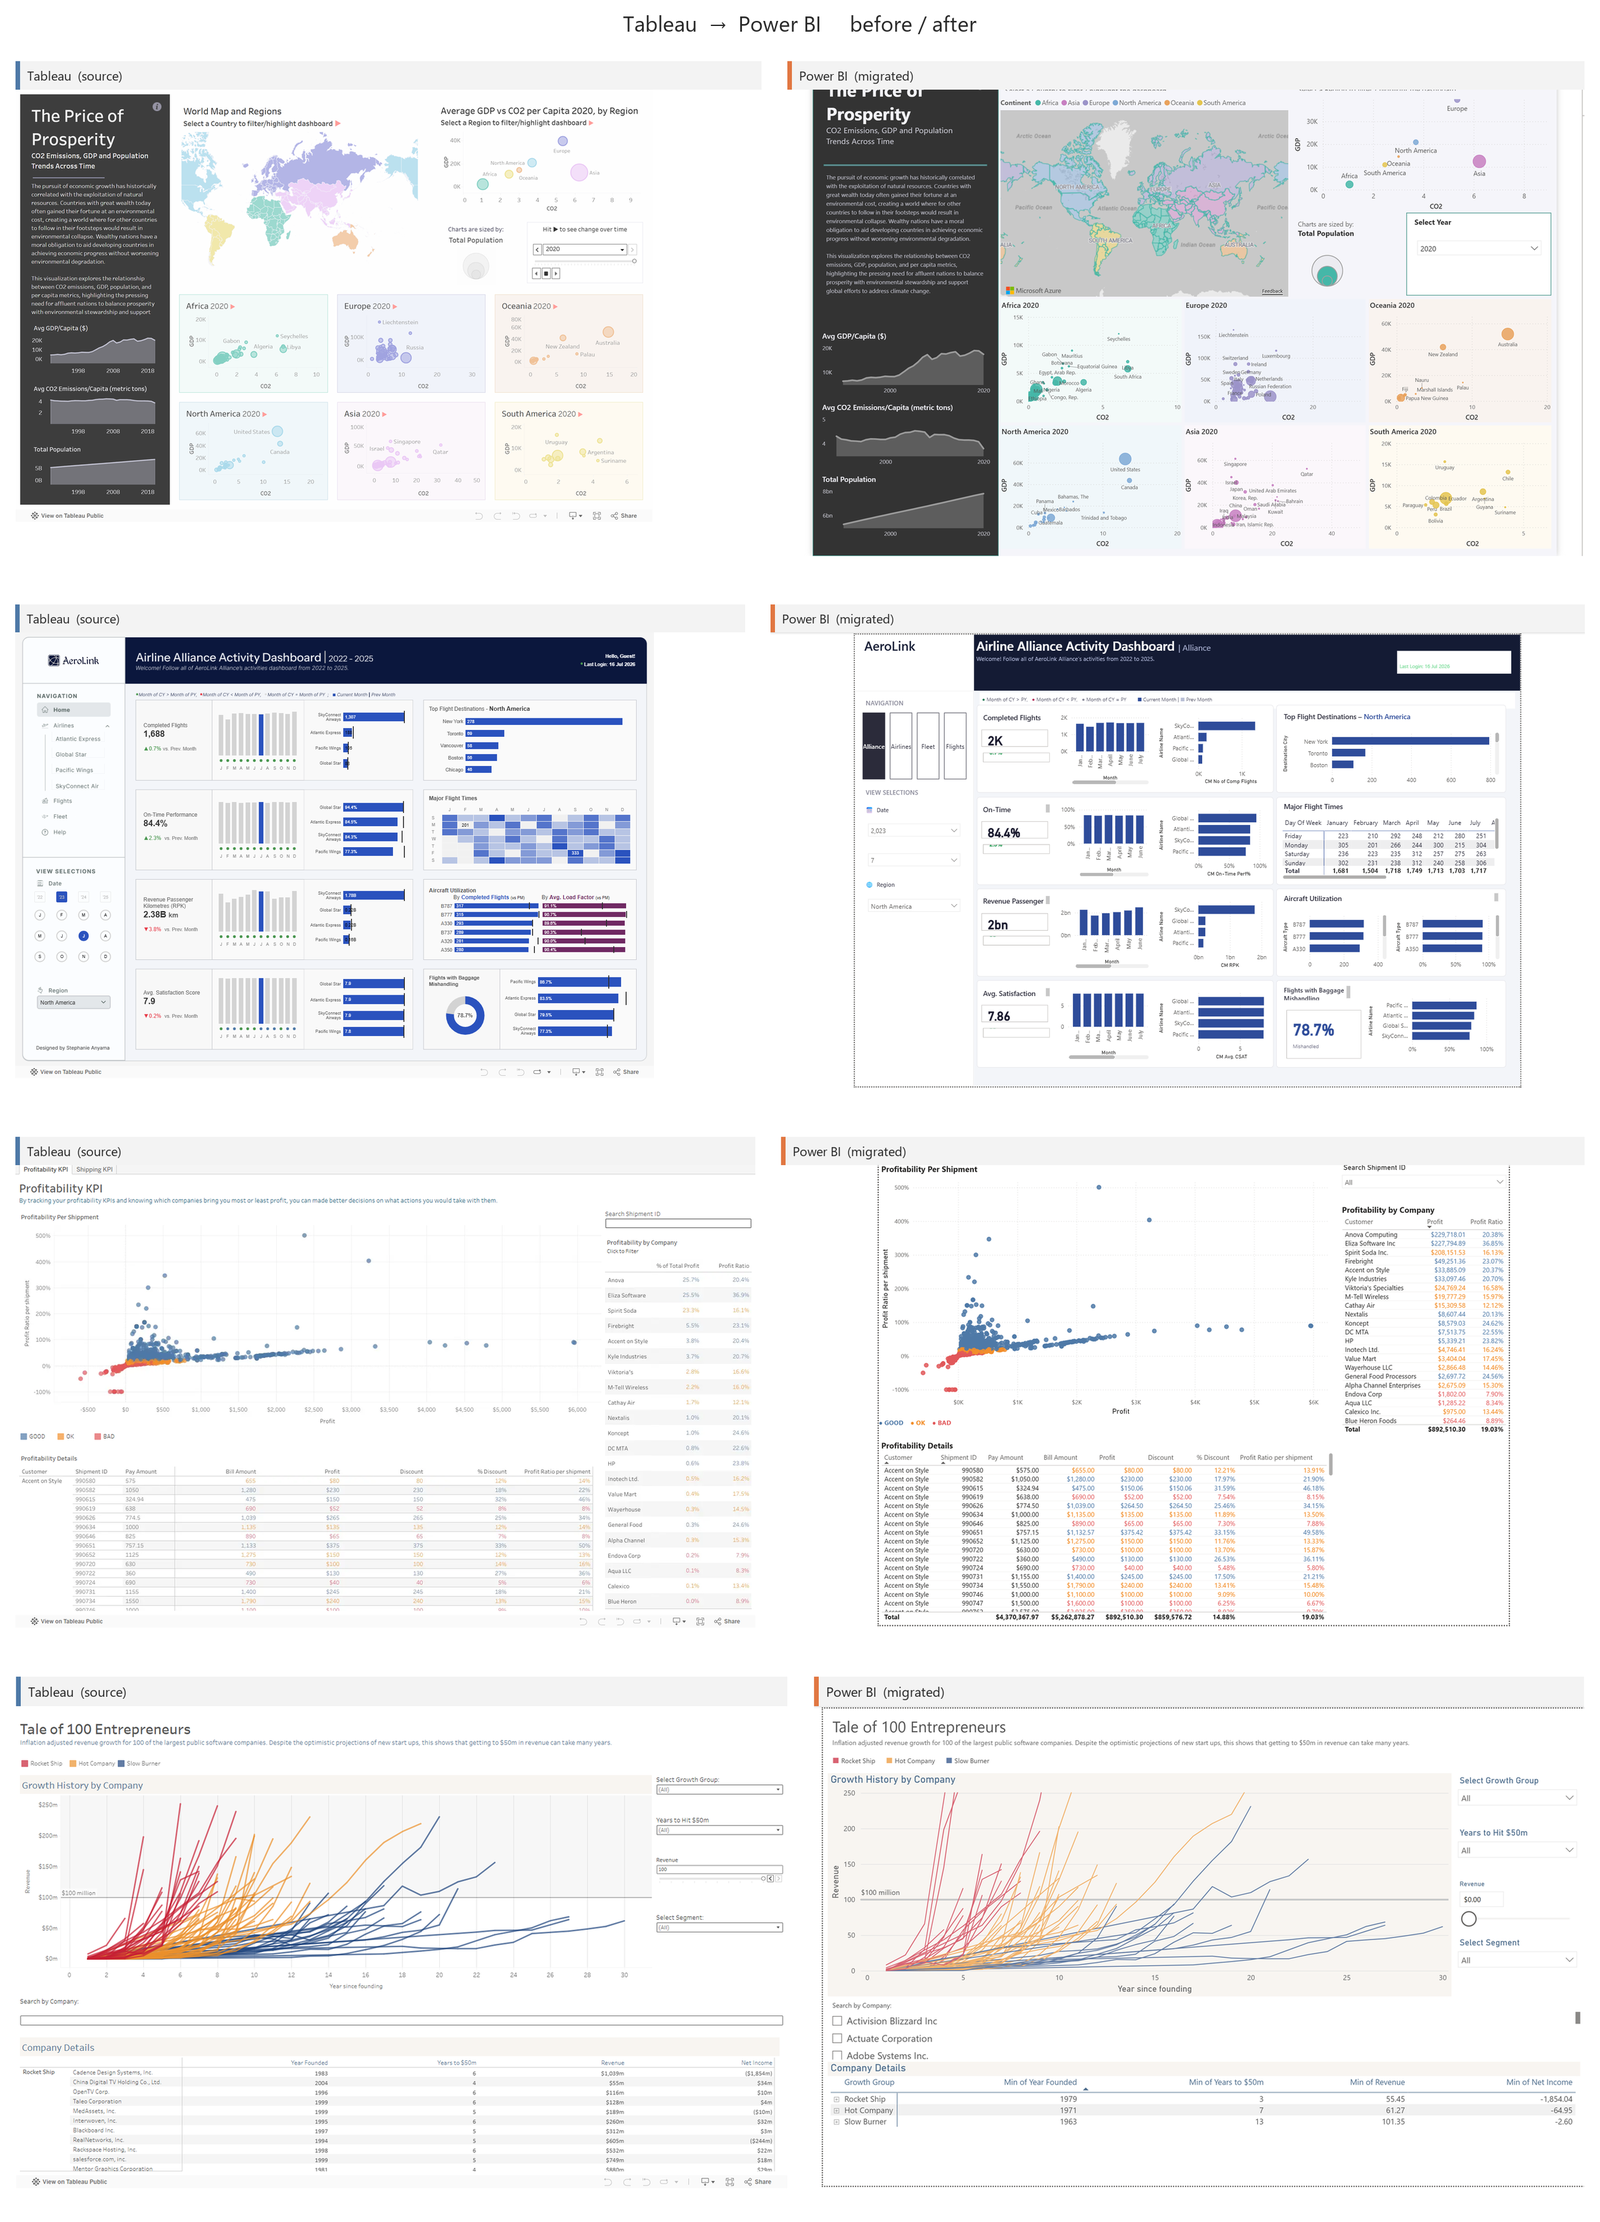
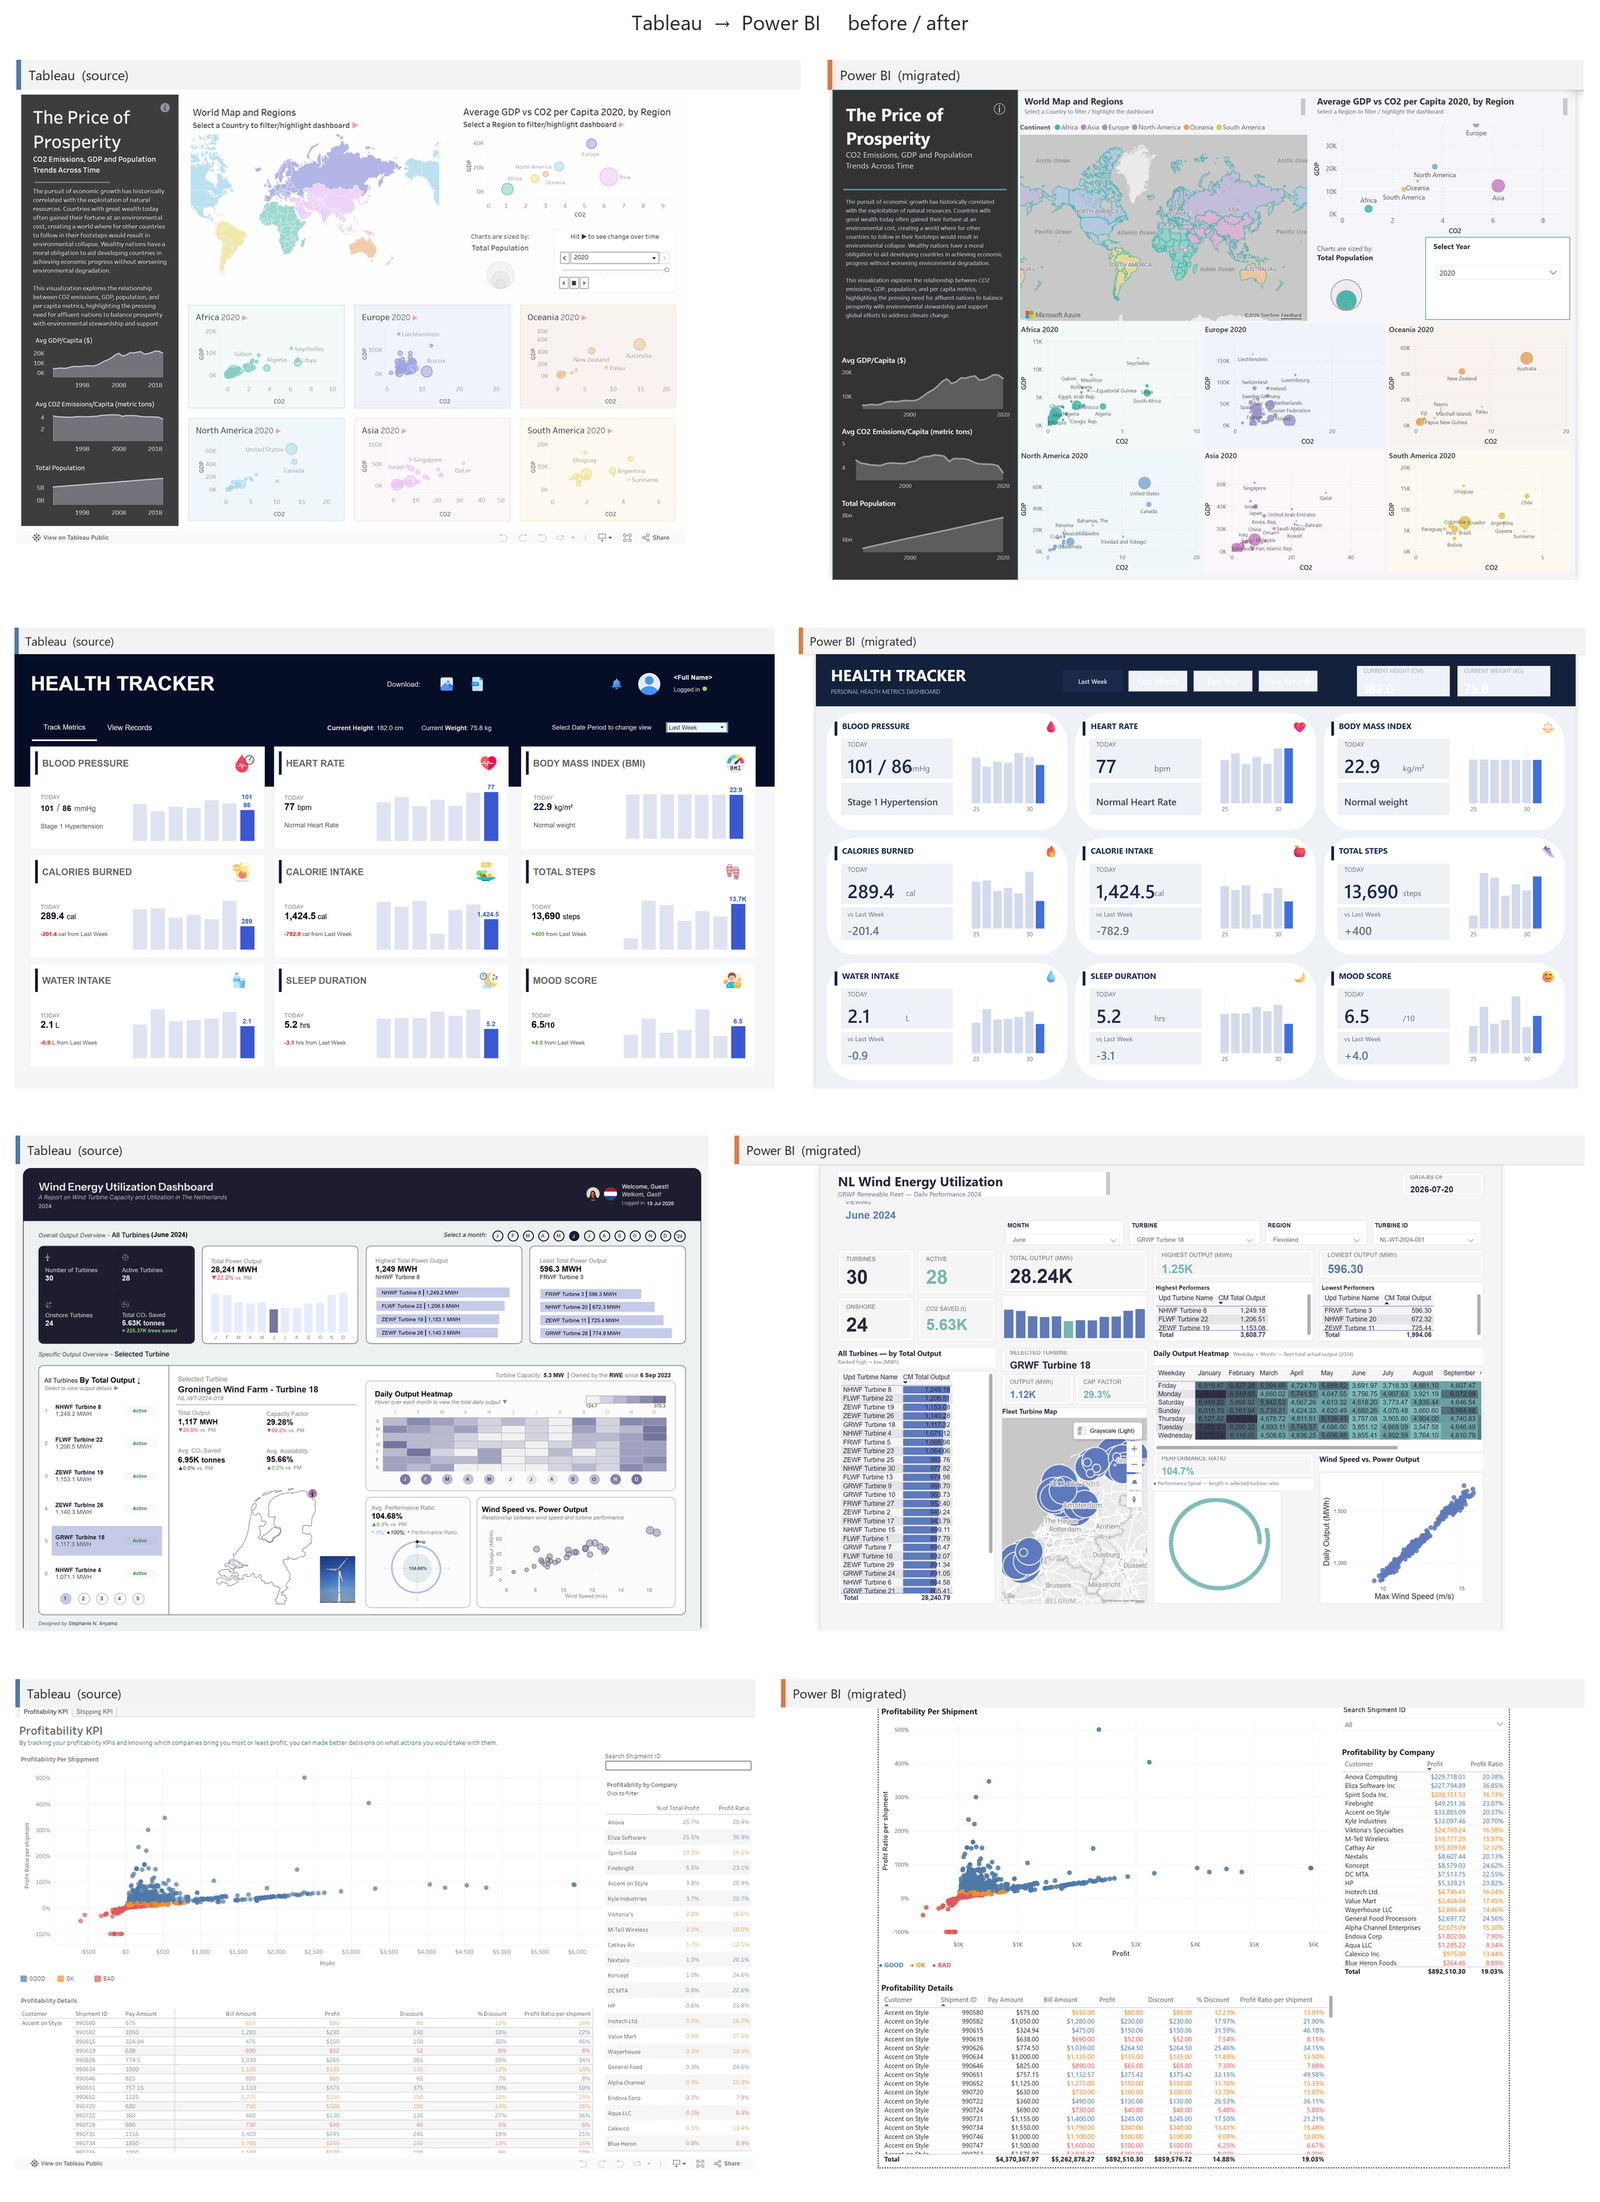
docs(showcase): refresh flagship render, add health-tracker + wind-energy, re-curate hero
- price-of-prosperity: swap in the clean re-rendered dashboard (no "incomplete
  data" refresh banner, Filters pane removed) and drop the now-stale crop.
- health-tracker: add to the gallery (clean embed-mode Tableau metrics vs the
  fixed Power BI render whose 9 mini-charts now highlight the latest day).
- wind-energy-utilization: add to the gallery (validated PASS render).
- Hero: drop the airline-alliance-activity panel; feature
  price-of-prosperity, health-tracker, wind-energy, shipping-kpis.

Regenerates the gallery README, per-workbook composites, and hero-before-after.png.

Copilot-Session: 2de9d228-46b0-40ed-9786-5e7c3fea4163

diff --git a/scripts/make_showcase.py b/scripts/make_showcase.py
@@ -30,9 +30,9 @@ TABLEAU_ACCENT = (78, 121, 167)
 PBI_ACCENT = (225, 119, 66)
 DEFAULT_HERO = [
     "price-of-prosperity",
-    "airline-alliance-activity",
+    "health-tracker",
+    "wind-energy-utilization",
     "shipping-kpis",
-    "tale-of-100-entrepreneurs",
 ]
 
 

diff --git a/docs/showcase/README.md b/docs/showcase/README.md
@@ -12,6 +12,22 @@ Global CO2 emissions, GDP, and population trends. Produced end to end by the tab
 
 ![The Price of Prosperity - Price of Prosperity](assets/price-of-prosperity-1.png)
 
+### Health Tracker
+
+Personal health metrics dashboard. Nine KPI cards each pair a today value and week-over-week delta with a 7-day trend bar chart that highlights the latest day, at exact numeric fidelity across every metric (blood pressure, heart rate, BMI, calories burned/intake, steps, water, sleep, mood). The Tableau date-period switcher (Last Week / Month / Year) migrates to Power BI button navigation. The latest-day bar highlight surfaced a real off-by-one in the date-window calc that the fidelity validator caught and the model builder fixed.
+
+**Track Metrics**
+
+![Health Tracker - Track Metrics](assets/health-tracker-1.png)
+
+### NL Wind Energy Utilization
+
+Netherlands wind-fleet performance dashboard (30 turbines, 2024 daily output). A star schema drives ranked turbine tables with data bars, an azureMap turbine-bubble layer over the Netherlands, a weekday-by-month output heatmap, TopN highest/lowest performer tables, and a wind-speed-vs-power scatter. Tableau's polar performance spiral is reproduced as DAX-computed X/Y measures. Numeric fidelity confirmed exact (total actual output 453,167.284 MWh, CO2 saved 169,031.370 t).
+
+**Fleet Performance**
+
+![NL Wind Energy Utilization - Fleet Performance](assets/wind-energy-utilization-1.png)
+
 ### Shipping KPIs
 
 Logistics profitability & delay KPIs. GOOD/OK/BAD conditional coloring on scatter points and table rows; per-shipment profit-ratio FIXED LOD; faithful preservation of the source's Expected-minus-Actual delay quirk. Live Power BI Desktop render with data.